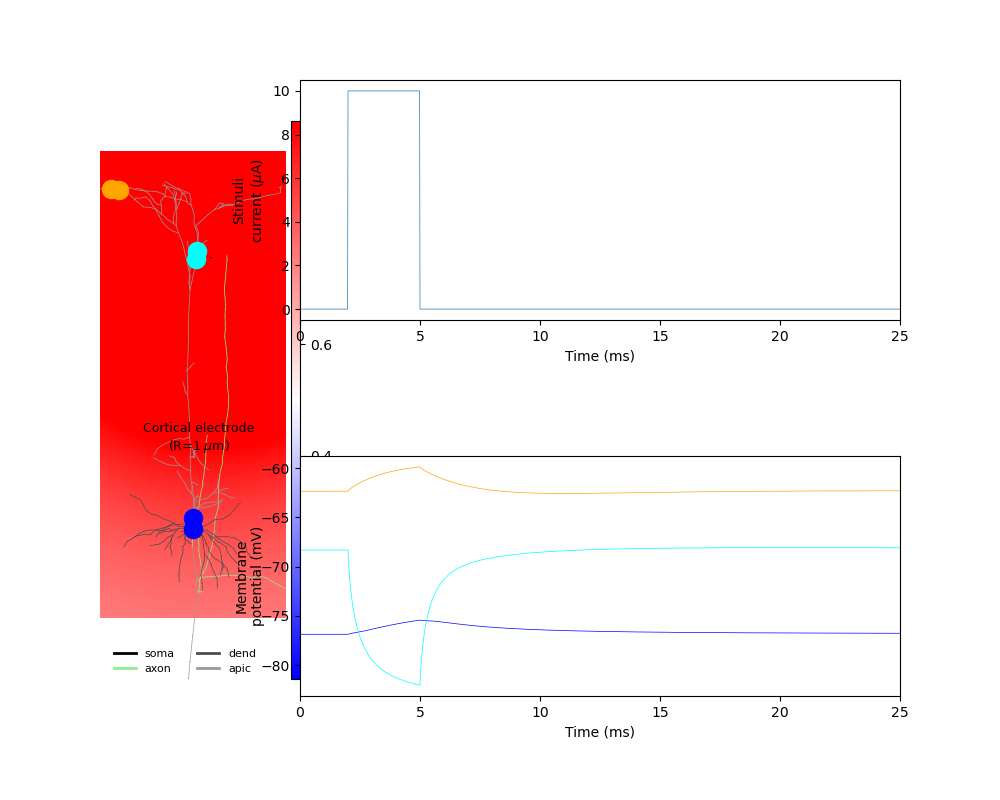
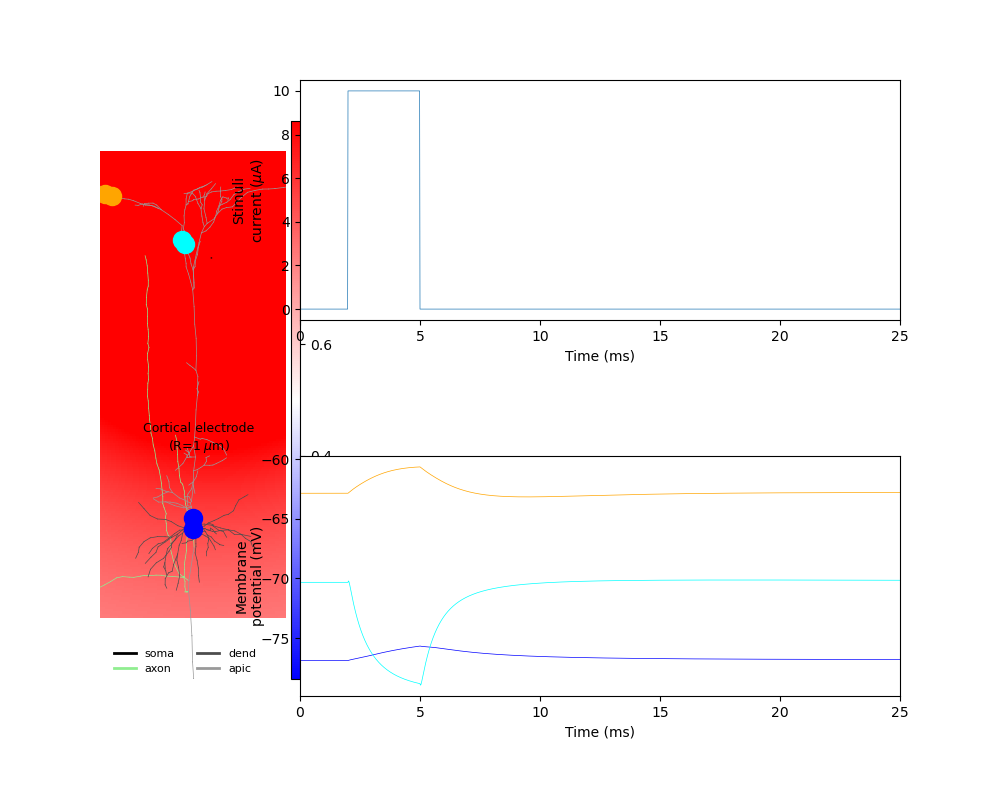
Fixed error when beginning second cell simulation. Fixed set_electrode_pos for first simulation (need to reset).

diff --git a/main.py b/main.py
@@ -92,9 +92,8 @@ class ExternalPotentialSim:
                 'custom_code': [join(model_path, 'Cell parameters.hoc'),
                                 join(model_path, 'charge.hoc')]
             }
-            print('checkpoint 1')
+
             cell = LFPy.Cell(**cell_parameters)
-            print('checkpoint 2')
             # self.cell = cell
             self.v_init = cell_parameters['v_init']
 
@@ -129,7 +128,7 @@ class ExternalPotentialSim:
 
         self.measure_pnts = np.array(measure_pnts)
 
-    def set_electrode_pos(self, cell, elec_positions=[]):
+    def set_electrode_pos(self, cell, elec_positions=np.array([])):
         """
         Parameters:
         cell: LFPy Cell object
@@ -140,15 +139,19 @@ class ExternalPotentialSim:
         """
 
         # Automatically setting electrode at a given distance from the measurement points
-        if elec_positions.size == 0:
+        if not elec_positions:
 
-            for mp in self.measure_pnts:
+            mp = self.measure_pnts[0]
+            elec_positions = np.array([int(cell.x[mp].mean()) - 50, int(cell.y[mp].mean()),
+                                       int(cell.z[mp].mean())], dtype=float)
 
-                elec_positions.append(
-                    np.array([int(cell.x[mp]) - 50, int(cell.y[mp]),
-                              int(cell.z[mp])], dtype=float))
-            print(int(cell.x[mp]) - 50, int(cell.y[mp]),
-                  int(cell.z[mp]))
+            for mp in self.measure_pnts[1:]:
+
+                ep = np.array([int(cell.x[mp].mean()) - 50, int(cell.y[mp].mean()),
+                               int(cell.z[mp].mean())], dtype=float)
+
+                elec_positions = np.vstack((elec_positions, ep))
+
         return elec_positions
 
     def _calc_point_sources_field(self, elec_params):
@@ -219,17 +222,15 @@ class ExternalPotentialSim:
     def find_time_constant(self):
         pass
 
-    def run_ext_sim(self, cell_models_folder, elec_params, current_amps,  com_coords, stop_time, elec_positions=np.empty(3), passive=False):
+    def run_ext_sim(self, cell_models_folder, elec_params, current_amps,  com_coords, stop_time, elec_positions=np.array([]), passive=False):
         cell_rot = [-3, 6]
-        cells = []
+        self.cells = []
         for z in cell_rot:
 
-            print('cell rotation: ', z)
             cell = self.return_cell(cell_models_folder, z, passive)
-            print('checkpoint 3')
             self.create_measure_points(cell, com_coords)
             elec_positions = self.set_electrode_pos(cell, elec_positions)
-            print(elec_positions)
+            print('elec_positions', elec_positions)
             elec_dists = np.zeros((len(elec_positions), com_coords.shape[0]))
             ss_pot = np.zeros(len(elec_positions))
             dV = np.zeros(len(elec_positions))
@@ -253,13 +254,13 @@ class ExternalPotentialSim:
             self.plot_steady_state(elec_dists[:, 0], ss_pot)
             self.plot_dV(elec_dists[:, 0], dV)
             self.create_measure_points(cell, com_coords)
-            cells.append(cell)
-            # cell.strip_hoc_objects()
-            # cell.__del__()
+            self.cells.append(cell)
+            cell.strip_hoc_objects()
+            cell.__del__()
 
         # Freeing up some variables
-        I = None
-        pos = None
+        # I = None
+        # pos = None
 
     def run_current_sim(self, cell_models_folder, elec_params, current_amps, positions, stop_time, passive=False):
         self.return_cell(cell_models_folder)

diff --git a/hallermann_single_source_pulse.py b/hallermann_single_source_pulse.py
@@ -40,6 +40,6 @@ measure_coordinates = np.array(
 start = time.time()
 # monophasic_pulse_params['stop_time'] = 20
 extPotSim.run_ext_sim(cell_models_folder, monophasic_pulse_params,
-                      current_amps, measure_coordinates, 20, elec_positions)
+                      current_amps, measure_coordinates, 20)
 end = time.time()
 print(f'Time to execute {end - start} seconds')
